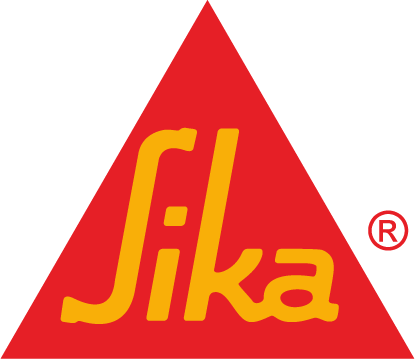
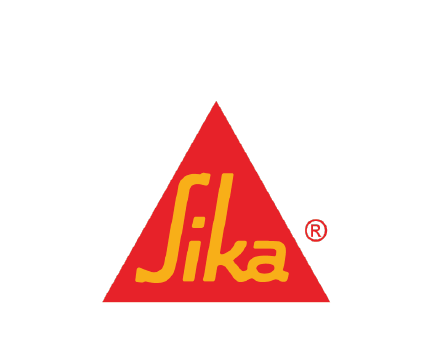
after adding new partners and sizing images

diff --git a/css/style.css b/css/style.css
@@ -1410,3 +1410,7 @@ h1, h2, h3, h4, h5,
 .page-navbar .site-navigation .site-menu > li > a  {
   color: black;
 }
+
+[class^="icon-"], [class*=" icon-"] {
+  color: #E53935 !important;
+}
